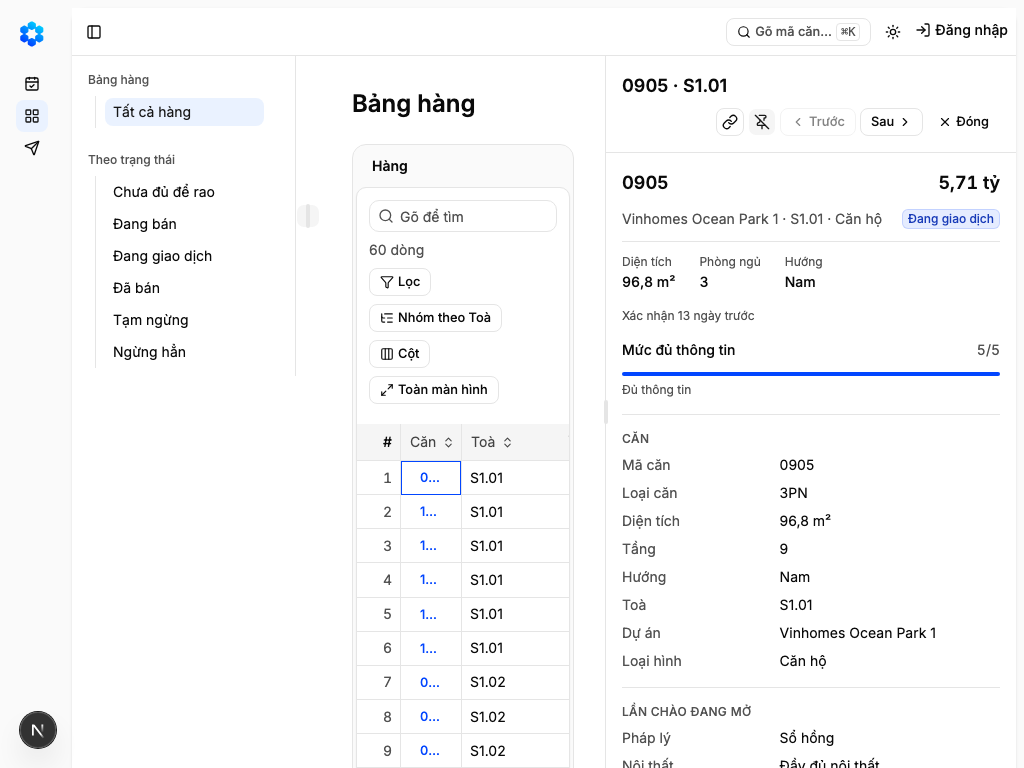
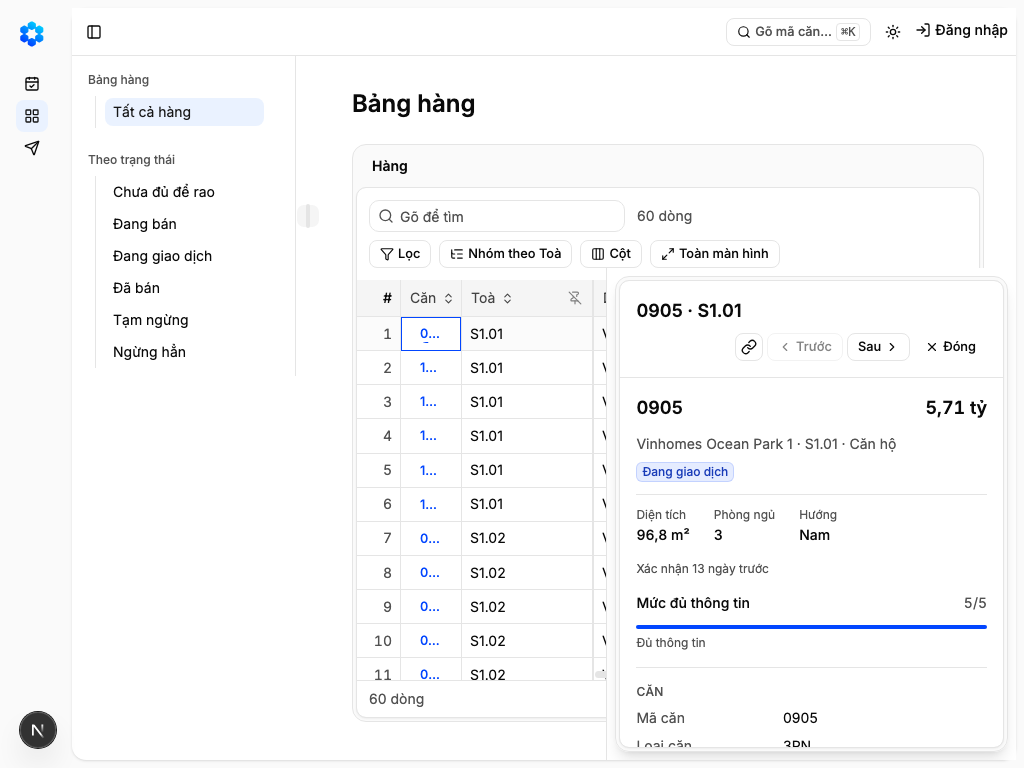
docs(ngan-chi-tiet-ghim-thanh-cot): round 4 evidence (E11 only); E11 steps follow D-1411-5

diff --git a/_acceptance/ngan-chi-tiet-ghim-thanh-cot/evidence-report.md b/_acceptance/ngan-chi-tiet-ghim-thanh-cot/evidence-report.md
@@ -1,13 +1,13 @@
 ---
 schema_version: 2
 feature_slug: ngan-chi-tiet-ghim-thanh-cot
-verdict: PASS
-failed_evals: []
+verdict: REJECT
+failed_evals: ["E11"]
 reason:
 verified_by: fresh-context verification subagent
 enforcement_mode: strict
 bypass_used: false
-verified_commit: 142f3fe68c1e1d3a002c3a4a16a61655b404f687
+verified_commit: 69c380e76fc3ea42359f2225767b6ffc95c7d935
 human_signoff:
 ---
 
@@ -25,146 +25,161 @@ human_signoff:
 | E8 | AC-7 | script | PASS |
 | E9 | AC-8 | test | PASS |
 | E10 | AC-8 | script | PASS |
-| E11 | AC-9 | ui-check | PASS |
-| E12 | AC-9 | judgment | PASS (đề xuất của hội đồng, chờ người chốt ở Cổng 2) |
+| E11 | AC-9 | ui-check | FAIL |
+| E12 | AC-9 | judgment | đề xuất PASS, chờ người chốt (xem mục Judgment) |
 
 ## Evidence
 
 - eval: E1
-  run_id: minted-ngan-chi-tiet-ghim-thanh-cot-E1-r3
+  run_id: minted-ngan-chi-tiet-ghim-thanh-cot-E1-r4
   exit_code: 0
   baseline: n-a
   verifier: config:executors.script.ghim_ngan_e2e
-  verified_at: 2026-11-14T04:30:35Z
+  verified_at: 2026-11-14T05:11:47Z
   output: |
     npx playwright test tests/e2e/ghim-ngan.spec.ts
-    30 passed (42.7s)
+    31 passed (48.5s)
+    __EXIT=0
 
 - eval: E2
-  run_id: minted-ngan-chi-tiet-ghim-thanh-cot-E2-r3
+  run_id: minted-ngan-chi-tiet-ghim-thanh-cot-E2-r4
   exit_code: 0
   baseline: n-a
   verifier: config:executors.script.ghim_ngan_e2e
-  verified_at: 2026-11-14T04:30:35Z
+  verified_at: 2026-11-14T05:11:47Z
   output: |
     npx playwright test tests/e2e/ghim-ngan.spec.ts
-    30 passed (42.7s)
+    31 passed (48.5s)
+    __EXIT=0
 
 - eval: E3
-  run_id: minted-ngan-chi-tiet-ghim-thanh-cot-E3-r3
+  run_id: minted-ngan-chi-tiet-ghim-thanh-cot-E3-r4
   exit_code: 0
   baseline: n-a
   verifier: config:executors.script.ghim_ngan_e2e
-  verified_at: 2026-11-14T04:30:35Z
+  verified_at: 2026-11-14T05:11:47Z
   output: |
     npx playwright test tests/e2e/ghim-ngan.spec.ts
-    30 passed (42.7s)
+    31 passed (48.5s)
+    __EXIT=0
 
 - eval: E4
-  run_id: minted-ngan-chi-tiet-ghim-thanh-cot-E4-r3
+  run_id: minted-ngan-chi-tiet-ghim-thanh-cot-E4-r4
   exit_code: 0
   baseline: n-a
   verifier: config:executors.script.ghim_ngan_e2e
-  verified_at: 2026-11-14T04:30:35Z
+  verified_at: 2026-11-14T05:11:47Z
   output: |
     npx playwright test tests/e2e/ghim-ngan.spec.ts
-    30 passed (42.7s)
+    31 passed (48.5s)
+    __EXIT=0
 
 - eval: E5
-  run_id: minted-ngan-chi-tiet-ghim-thanh-cot-E5-r3
+  run_id: minted-ngan-chi-tiet-ghim-thanh-cot-E5-r4
   exit_code: 0
   baseline: n-a
   verifier: config:executors.script.ghim_ngan_e2e
-  verified_at: 2026-11-14T04:30:35Z
+  verified_at: 2026-11-14T05:11:47Z
   output: |
     npx playwright test tests/e2e/ghim-ngan.spec.ts
-    30 passed (42.7s)
+    31 passed (48.5s)
+    __EXIT=0
 
 - eval: E6
-  run_id: minted-ngan-chi-tiet-ghim-thanh-cot-E6-r3
+  run_id: minted-ngan-chi-tiet-ghim-thanh-cot-E6-r4
   exit_code: 0
   baseline: green
   verifier: config:executors.test.unit
-  verified_at: 2026-11-14T04:30:35Z
+  verified_at: 2026-11-14T05:11:47Z
   output: |
     make test
-    hoàn tất, không có ca thất bại
+    __EXIT=0
 
 - eval: E7
-  run_id: minted-ngan-chi-tiet-ghim-thanh-cot-E7-r3
+  run_id: minted-ngan-chi-tiet-ghim-thanh-cot-E7-r4
   exit_code: 0
   baseline: n-a
   verifier: config:executors.script.ghim_ngan_e2e
-  verified_at: 2026-11-14T04:30:35Z
+  verified_at: 2026-11-14T05:11:47Z
   output: |
     npx playwright test tests/e2e/ghim-ngan.spec.ts
-    30 passed (42.7s)
+    31 passed (48.5s)
+    __EXIT=0
 
 - eval: E8
-  run_id: minted-ngan-chi-tiet-ghim-thanh-cot-E8-r3
+  run_id: minted-ngan-chi-tiet-ghim-thanh-cot-E8-r4
   exit_code: 0
   baseline: n-a
   verifier: config:executors.script.ghim_ngan_e2e
-  verified_at: 2026-11-14T04:30:35Z
+  verified_at: 2026-11-14T05:11:47Z
   output: |
     npx playwright test tests/e2e/ghim-ngan.spec.ts
-    30 passed (42.7s)
+    31 passed (48.5s)
+    __EXIT=0
 
 - eval: E9
-  run_id: minted-ngan-chi-tiet-ghim-thanh-cot-E9-r3
+  run_id: minted-ngan-chi-tiet-ghim-thanh-cot-E9-r4
   exit_code: 0
   baseline: green
   verifier: config:executors.test.vai_man_nut
-  verified_at: 2026-11-14T04:30:35Z
+  verified_at: 2026-11-14T05:11:47Z
   output: |
     npx vitest run tests/vai-man-nut-sinh.test.ts tests/vai-man-dau-nut.test.tsx tests/bo-nut-vai-man.test.ts src/modules/identity/permitted-action.test.tsx
-    các bộ kiểm đều qua
+    __EXIT=0
 
 - eval: E10
-  run_id: minted-ngan-chi-tiet-ghim-thanh-cot-E10-r3
+  run_id: minted-ngan-chi-tiet-ghim-thanh-cot-E10-r4
   exit_code: 0
   baseline: green
   verifier: config:executors.script.check
-  verified_at: 2026-11-14T04:30:35Z
+  verified_at: 2026-11-14T05:11:47Z
   output: |
     make check
     CODEOWNERS matches governance/autonomy.yaml
+    __EXIT=0
 
 - eval: E11
-  run_id: minted-ngan-chi-tiet-ghim-thanh-cot-E11-r3
-  exit_code: 0
+  run_id: minted-ngan-chi-tiet-ghim-thanh-cot-E11-r4
+  exit_code: 1
   baseline: n-a
-  verifier: config:executors.script.ui_check
-  verified_at: 2026-11-14T04:30:35Z
+  verifier: config:executors.ui-check
+  verified_at: 2026-11-14T05:11:47Z
   screenshot: evidence/ghim-1440-sang.png
   observed: |
-    1440 sáng (ghim-1440-sang.png): hồ sơ "0905 · S1.01" là cột liền mép phải, ngay dưới thanh trên; vạch chia mảnh có tay cầm nhỏ ở mép trái cột (khoảng x=919); bảng "Bảng hàng" bên trái hiện đủ, không bị che. Dòng hai có nút liên kết, nút bỏ ghim (đang bấm), "Trước" (mờ), "Sau", "Đóng". Khớp Expected.
-    1440 tối (ghim-1440-toi.png): cùng bố cục ở nền tối, vạch chia, tay cầm, bảng và thứ tự nút như ảnh sáng. Khớp.
-    1024 sáng và tối (ghim-1024-sang.png, ghim-1024-toi.png): cột vẫn liền mép phải dưới thanh trên, vạch chia và tay cầm ở mép trái (khoảng x=606); bảng bị ép về bên trái (thấy cột Căn và Toà) nhưng không bị che; dòng hai: liên kết, bỏ ghim (đang bấm), Trước, Sau, Đóng. Khớp.
-    360 sáng (ho-so-360-sang.png): hồ sơ phủ toàn màn với tiêu đề "0905 · S1.01"; dòng hai có liên kết, Trước, Sau, Đóng; không có nút Ghim. Khớp.
-    Không ảnh nào mâu thuẫn Expected. Ghi chú nhỏ: sau khi bấm ở 1440 và 1024, tên nút đổi sang biểu tượng bỏ ghim, đó là trạng thái đang bấm, không phải lỗi.
-  network_observed: no-app-traffic
+    ghim-1440-sang.png: after pinning, the record is a column flush with the right edge under the top bar, with a thin divider and a small handle at its left edge (around x=920, y=470). The grid on the left is narrowed, not covered. The record header has a title line (0905 · S1.01) and a second line with link icon, pin (unpin) icon, Trước, Sau, Đóng; the pin icon sits before Trước/Sau/Đóng. Matches Expected.
+    ghim-1440-toi.png: same layout in dark theme, readable contrast, thin divider and handle visible. Matches Expected.
+    ghim-1024-sang.png: the record is a rounded floating card laid over the right part of the grid; it covers the grid columns from Dự án onward. It is not a flush column, there is no left-edge handle, and the second row holds link, Trước, Sau, Đóng with NO pin button. Contradicts Expected.
+    ghim-1024-toi.png: same as light, floating card over the grid, no pin button. Contradicts Expected.
+    ho-so-360-sang.png: full-screen record (0905 · S1.01), link, Trước, Sau, Đóng, no Ghim button. Matches Expected.
+    Overall: 1440 and 360 meet AC-9; 1024 does not (no pin button, floating card covers the table), so E11 fails.
+  network_observed: clean
+  output: |
+    Driver: Playwright script (Chromium), dev server started on a spare port and stopped afterwards. Frames: ghim-1440-sang, ghim-1440-toi, ghim-1024-sang, ghim-1024-toi, ho-so-360-sang, plus E11-network.txt.
+    Assertions: 1440 sáng và tối đạt (nút Ghim có, bấm xong thấy Bỏ ghim, Trước, Sau, Đóng). 1024 sáng và tối KHÔNG đạt: không có nút "Ghim thành cột", hồ sơ là thẻ nổi bo góc phủ lên bảng, chờ bấm quá thời hạn. 360 đạt: hồ sơ toàn màn, không có nút Ghim.
+    Mạng: không có request lỗi, không có lỗi console.
 
 ### Lệnh suite (hồi quy)
 
 - cmd: npm run build
-  run_id: minted-ngan-chi-tiet-ghim-thanh-cot-SUITE-build-r3
+  run_id: minted-ngan-chi-tiet-ghim-thanh-cot-SUITE-build-r4
   exit_code: 0
-  verified_at: 2026-11-14T04:30:35Z
+  verified_at: 2026-11-14T05:11:47Z
 
 - cmd: make e2e
-  run_id: minted-ngan-chi-tiet-ghim-thanh-cot-SUITE-make_e2e-r3
+  run_id: minted-ngan-chi-tiet-ghim-thanh-cot-SUITE-make_e2e-r4
   exit_code: 0
-  verified_at: 2026-11-14T04:30:35Z
+  verified_at: 2026-11-14T05:11:47Z
 
-### Hội đồng chấm E12 (đề xuất — chờ người chốt)
+### Judgment
 
 - eval: E12
+  judged_by: judge panel (3 lens, fresh context) — đề xuất, chưa phải quyết định
   proposal: PASS
-  judged_by: judge panel (fresh context)
-  - domain-correctness: PASS — Cả bốn ảnh ghim 1440 và 1024, sáng và tối, có cột chi tiết liền mép phải, vạch chia mảnh có tay cầm giữa nội dung và cột, không bóng nổi; vạch vẫn thấy ở nền tối. Nút Ghim ở dòng hai, sau nút liên kết và ngay trước Trước, Sau, Đóng, đúng AC-1. Ảnh 360 là hồ sơ toàn màn, không có nút Ghim. Chỉ xem ảnh nên không kiểm được tên nút hay aria-pressed.
-  - operational-feasibility: PASS — Cột chi tiết liền mép phải, không bóng nổi, có vạch chia mảnh với tay cầm thấy được, cùng dáng cột Details của app-shell-11. Ở nền tối tay cầm vẫn rõ, đường vạch mờ nhưng cùng mức khối mẫu. Nút Ghim (dạng bỏ ghim) ở dòng hai trước Trước, Sau, Đóng. Ảnh 360 không có nút Ghim.
-  - spec-alignment: PASS — Bốn ảnh ghim có cột chi tiết liền mép phải, vạch chia mảnh có tay cầm, không bóng nổi, giống cột Details của app-shell-11; vạch vẫn thấy ở nền tối dù tương phản thấp. Nút Ghim ở dòng hai, sau nút liên kết và trước Trước, Sau, Đóng. Ảnh 360 là hồ sơ toàn màn, không có nút Ghim.
+  votes:
+  - domain-correctness: PASS — Bốn ảnh ghim (1440 và 1024, sáng và tối): cột liền mép phải, không bóng nổi, vạch chia mảnh có tay cầm giống cột Details của app-shell-11; tay cầm nhìn thấy được cả ở nền tối. Nút Ghim ở dòng hai, sau nút liên kết và trước Trước, Sau, Đóng, khớp AC-1. Ảnh ho-so-360-sang là hồ sơ toàn màn, không có nút Ghim. Lưu ý: chỉ xem ảnh chụp, không phóng to; vạch chia nền tối ở 1440 khá mờ, chỉ tay cầm là rõ.
+  - operational-feasibility: PASS — Cả bốn ảnh ghim đều có cột hồ sơ liền mép phải vùng nội dung, không bóng nổi, giữa bảng và cột có vạch mảnh kèm tay cầm nhỏ ở giữa, giống cột Details của app-shell-11. Vạch và tay cầm vẫn nhận ra được ở nền tối, dù mờ hơn ở 1440 tối. Dòng hai đầu hồ sơ theo thứ tự nút liên kết, nút Ghim (đang đã ghim), Trước, Sau, Đóng. Ảnh ho-so-360-sang là hồ sơ toàn màn, không có nút Ghim.
+  - spec-alignment: PASS — Cả bốn ảnh ghim cho thấy cột chi tiết liền mép phải, không bóng nổi, có vạch chia mảnh với tay cầm nhỏ, giống cột Details của app-shell-11. Nút Ghim (hiện ở trạng thái «Bỏ ghim») đứng ở dòng hai, sau nút liên kết và trước Trước, Sau, Đóng, đúng AC-1. Ảnh ho-so-360-sang là hồ sơ toàn màn, không có nút Ghim.
+  lưu ý cho người: phiếu của hội đồng mô tả ảnh 1024 như có cột ghim liền mép, trái với bước đo máy của E11 (ảnh 1024 là thẻ nổi, không có nút Ghim). Hai nguồn mâu thuẫn; người đối chiếu trực tiếp ảnh ghim-1024-sang.png và ghim-1024-toi.png ở Cổng 2.
   human_override:  # chi nguoi ghi
 
 ## Known limits
@@ -173,20 +188,24 @@ human_signoff:
 
 ## Analyst
 
-Eval không phân biệt (xanh trên cả mã hiện tại lẫn baseline), là hộ vệ hồi quy hoặc cần viết lại để khẳng định hành vi mới:
-- make test: E6
-- npx vitest run tests/vai-man-nut-sinh.test.ts tests/vai-man-dau-nut.test.tsx tests/bo-nut-vai-man.test.ts src/modules/identity/permitted-action.test.tsx --coverage.enabled=false --reporter=verbose: E9
-- make check: E10
+Eval không phân biệt (xanh trên cả HEAD lẫn baseline, chứng minh harness chứ không phải tính năng; viết lại để assert hành vi mới hoặc xác nhận là regression-guard có chủ ý):
+- make test (E6)
+- npx vitest run tests/vai-man-nut-sinh.test.ts tests/vai-man-dau-nut.test.tsx tests/bo-nut-vai-man.test.ts src/modules/identity/permitted-action.test.tsx --coverage.enabled=false --reporter=verbose (E9)
+- make check (E10)
 
-Baseline khong do
+Baseline không đo:
 - npx playwright test tests/e2e/ghim-ngan.spec.ts: bo qua baseline: tep tests/e2e/ghim-ngan.spec.ts co o cay dang kiem nhung chua co o merge-base 66e5a8df42fe0b0d470c8c92b5f88bc3fcd140d9 — eval moi, chay tren code cu khong phan biet gi
+
+Lệnh fail không gắn eval: không có. Lệnh ui-check:E11 gắn eval E11 (lần chạy thất bại, được liệt kê ở trên).
+
+Nhận xét về E11: lỗi nằm ở khổ 1024. E1 (đã xanh) lại khẳng định rằng ở 1024 với cột thứ hai App Shell mở thì vùng dữ liệu dưới 800 px, không có nút ghim và hồ sơ là thẻ nổi. Có khả năng bước chụp của E11 ở 1024 để cột thứ hai mở nên không khớp lời hứa của E11 («ảnh 1024: cột liền mép phải, có nút Ghim»). Người quyết ở Cổng 2: sửa mô tả E11 (chụp 1024 với cột thứ hai gập) hoặc xác nhận AC-9 chỉ áp dụng khi vùng đủ rộng.
 
 ## Variance
 
-none — mọi eval chạy một lần, xác định, không có phương sai.
+none — mọi eval nhiều lần chạy đều đồng nhất (không eval nào chạy hơn một lần).
 
 ## Iterations
 
-Round 1: bản dựng đầu, trả về triển khai để sửa theo bằng chứng bằng chứng gửi, nút chỉ đọc và tiêu điểm chỉ cho dòng được thay (commit 56dc1e9).
-Round 2: sửa Esc trong ô đang sửa, ca phá chạy qua các phép kiểm thật, sàn 480 px cho lưới (commit 142f3fe).
-Round 3: toàn bộ eval máy xanh trên cây 142f3fe; ba eval hồi quy (E6, E9, E10) xanh cả trên baseline; chờ người chốt E12 và ký ở Cổng 2.
+Round 2: sửa Esc trong ô đang sửa, ca đối chứng đi qua kiểm tra thật, sàn 480 px cho bảng. Quay lại cài đặt.
+Round 3: PASS — bằng chứng, nhật ký chạy, định tuyến máy được ghi.
+Round 4: E11 không đạt — ảnh 1024 sáng và tối là thẻ nổi phủ bảng, không có nút Ghim; 1440 và 360 đạt. Trả về cho người quyết (REJECT).

diff --git a/_acceptance/ngan-chi-tiet-ghim-thanh-cot/review-findings.md b/_acceptance/ngan-chi-tiet-ghim-thanh-cot/review-findings.md
@@ -1,76 +1,53 @@
-# Review findings: ngan-chi-tiet-ghim-thanh-cot (round 3)
+# Review findings: ngan-chi-tiet-ghim-thanh-cot (round 4)
 
 ## Trong hợp đồng
 
-Không có finding nào map được vào AC.
+Không có finding nào.
 
 ## Ngoài hợp đồng — người quyết ở Gate 2
 
 Các lỗi dưới đây nằm ngoài phạm vi đã duyệt ở Cổng Phạm vi và CHƯA qua bác bỏ đối kháng — người quyết, máy không sửa và không chấm thứ máy không được sửa.
 
-- **Records: decision 0024 not updated after the floating record moved below the region toolbar**
-  Người dùng thấy gì: Một trang ghi chép nội bộ vẫn mô tả sai chỗ đứng của hồ sơ nổi. Người dùng không thấy gì khác, chỉ người đọc lại lịch sử quyết định mới bị hiểu nhầm.
-  Căn cứ: Chỉ là ghi chép cũ, không ảnh hưởng người dùng, không mất dữ liệu, sửa sau rất rẻ.
+- **Records: decision 0024 now describes the old floating position**
+  Người dùng thấy gì: Một trang ghi chép nội bộ vẫn mô tả hồ sơ nổi đứng sát thanh trên cùng. Người dùng không thấy khác biệt, chỉ người đọc lại lịch sử quyết định có thể hiểu nhầm.
+  Căn cứ: Hậu quả nhẹ, không mất dữ liệu và người dùng không gặp; sửa lại ghi chú sau rất rẻ.
   file: `wiki/decisions/0024-ngan-noi-xem-chi-tiet.md`
   severity: medium
   Đề xuất: known-limits
 
-- **Records: behaviour row for the record panel contradicts itself**
-  Người dùng thấy gì: Tài liệu mô tả hành vi hồ sơ tự mâu thuẫn và thiếu mức rộng tối thiểu của bảng. Người dùng không thấy khác biệt, chỉ người làm tiếp có thể hiểu sai.
-  Căn cứ: Lỗi chỉ ở chữ trong tài liệu, không ảnh hưởng người dùng, sửa lại sau rất rẻ.
+- **Records: design/behaviors.md contradicts itself and the code**
+  Người dùng thấy gì: Tài liệu mô tả hồ sơ tự mâu thuẫn và thiếu mức rộng tối thiểu của bảng. Người dùng không thấy gì khác, chỉ người làm tiếp có thể hiểu sai.
+  Căn cứ: Không ảnh hưởng người dùng và không mất dữ liệu; chỉnh lại câu chữ sau là việc rẻ.
   file: `design/behaviors.md`
   severity: low
   Đề xuất: known-limits
 
-- **Intent / human decision: a row 3 behaviour approved earlier was changed on the supervisor's ruling, and its test was rewritten**
-  Người dùng thấy gì: Hồ sơ nổi nay đứng dưới thanh công cụ của vùng thay vì sát thanh trên cùng như đã duyệt trước đó. Chủ kho cần xác nhận hoặc đảo lại ở cổng bằng chứng.
-  Căn cứ: Thay đổi nhìn thấy được nhưng không mất dữ liệu và dễ đảo lại; chỉ cần chủ kho xác nhận.
-  file: `tests/e2e/ho-so-can.spec.ts`
-  severity: low
-  Đề xuất: known-limits
-
-- **Criteria and tests: the AC-6 unit check cannot fail, and its helper lives in production code used only by tests**
+- **Criteria and tests: the cookie-leak unit test cannot fail**
   Người dùng thấy gì: Một phép kiểm tra nhỏ về việc lưu trạng thái ghim không thể phát hiện lỗi thật. Người dùng không bị ảnh hưởng vì kiểm tra trên trình duyệt thật vẫn bảo vệ việc này.
-  Căn cứ: Chỉ làm bộ kiểm yếu đi một chút, không ảnh hưởng người dùng, có thể củng cố sau với chi phí thấp.
-  file: `src/components/candidate/record-pin.ts`
-  severity: low
-  Đề xuất: known-limits
-
-- **Hồ sơ nổi bị ép còn 320 px khi vùng làm việc hẹp hơn khoảng 890 px, dù không ghim**
-  Người dùng thấy gì: Khi mở rộng thanh bên ở cửa sổ khoảng 1024 px, hồ sơ nổi hẹp lại còn 320 px thay vì khoảng hai phần năm cửa sổ như trước. Vẫn đọc và dùng được, chỉ chật hơn.
-  Căn cứ: Chỉ làm hồ sơ nổi hẹp hơn ở một cỡ cửa sổ, không mất dữ liệu, người dùng thu gọn thanh bên là hết.
-  file: `src/components/candidate/record-panel.tsx`
-  severity: medium
-  Đề xuất: known-limits
-
-- **Số đo vùng làm việc (left/width) không cập nhật khi mở hay thu thanh bên lúc hồ sơ đang mở**
-  Người dùng thấy gì: Nếu mở rộng thanh bên khi hồ sơ đang ghim, cột ghim có thể chiếm quá nhiều chỗ và bảng bị chật hơn mức tối thiểu cho đến khi đổi cỡ cửa sổ hoặc tải lại trang.
-  Căn cứ: Chỉ làm bố cục tạm chật, không mất dữ liệu, người dùng tự gỡ bằng cách tải lại hoặc bỏ ghim; tình huống không phổ biến.
-  file: `src/components/candidate/record-panel.tsx`
-  severity: medium
-  Đề xuất: known-limits
-
-- **Hình dạng 4 (assertion âm tính một mình): kiểm tra 'toolbar covered by record' của E4 không có đối chứng dương và không có ca phá**
-  Người dùng thấy gì: Một phép kiểm tra thanh công cụ có bị hồ sơ che hay không có thể lặng lẽ không đo gì nếu nhãn nút đổi. Người dùng hiện không thấy lỗi nào.
-  Căn cứ: Chỉ làm bộ kiểm kém tin cậy, không ảnh hưởng người dùng hôm nay, bổ sung sau khá rẻ.
-  file: `tests/e2e/ghim-ngan.spec.ts`
-  severity: medium
-  Đề xuất: known-limits
-
-- **Hình dạng 4 (assertion âm tính một mình): E6 'pin cookie carries record data' kiểm một bộ kiểm chỉ có trong test, trên một chuỗi viết tay**
-  Người dùng thấy gì: Một phép kiểm tra nhỏ về nội dung cookie ghim chỉ chứng minh chính nó chạy đúng. Việc cookie không chứa dữ liệu căn đã được kiểm trên trình duyệt thật.
-  Căn cứ: Đã có kiểm tra thật bao phủ, người dùng không chịu rủi ro, công sửa không đáng kể.
+  Căn cứ: Có lớp bảo vệ khác che việc này nên nguy cơ lộ dữ liệu thấp; dọn phép kiểm thừa sau là rẻ.
   file: `tests/ghim-ngan.test.ts`
   severity: low
-  Đề xuất: wont-fix
+  Đề xuất: known-limits
 
-- **Hình dạng 2 (đầu ra viết tay đúng khuôn bên đọc): ca phá 'record remounted on pin' tự đặt scrollTop=0 thay vì dựng một bản gắn lại cây**
-  Người dùng thấy gì: Ca thử cố ý làm hỏng việc giữ vị trí cuộn khi ghim chỉ đặt giá trị bằng tay chứ không mô phỏng lỗi thật. Người dùng không bị ảnh hưởng.
-  Căn cứ: Chỉ là độ chặt của bộ kiểm, không ảnh hưởng người dùng, chi phí dựng ca phá thật vượt lợi ích.
-  file: `tests/e2e/ghim-ngan.spec.ts`
+- **Design: the shared record panel imports the resizable package directly**
+  Người dùng thấy gì: Khung hồ sơ lấy một phần của thư viện chia cột trực tiếp thay vì qua lớp bọc chung. Người dùng không thấy khác biệt nào.
+  Căn cứ: Chỉ là thói quen tổ chức nội bộ, không ảnh hưởng người dùng hay dữ liệu; sửa tốn công hơn lợi ích.
+  file: `src/components/candidate/record-panel.tsx`
   severity: low
   Đề xuất: wont-fix
 
-## Chưa adversarial-verify (refuter chết)
+- **Intent / records: the wiki log moves another row's entry**
+  Người dùng thấy gì: Nhật ký thay đổi bị dời một dòng của hàng khác xuống thấp hơn. Người dùng không thấy gì, chỉ có thể gây xung đột khi gộp với các hàng khác.
+  Căn cứ: Không ảnh hưởng người dùng và không mất dữ liệu; nếu xung đột thì gỡ tay một lần là xong.
+  file: `wiki/log.md`
+  severity: low
+  Đề xuất: known-limits
+
+- **Assertion âm-tính-một-mình (hình dạng 4): 'toolbar covered by record' không có ca đối chứng nào làm nó bật**
+  Người dùng thấy gì: Phép kiểm tra thanh công cụ có bị hồ sơ che hay không có thể lặng lẽ không đo gì nếu nhãn nút đổi. Người dùng hiện không thấy lỗi nào.
+  Căn cứ: Hiện không có lỗi người dùng thấy; rủi ro chỉ là bỏ sót lỗi che thanh công cụ trong tương lai, và bổ sung ca đối chứng sau là rẻ.
+  file: `tests/e2e/ghim-ngan.spec.ts`
+  severity: low
+  Đề xuất: known-limits
 
 Cụm ngoài vùng phủ: cluster: n-a (không đo được — không eval nào khai paths, hoặc dưới ngưỡng cụm).
